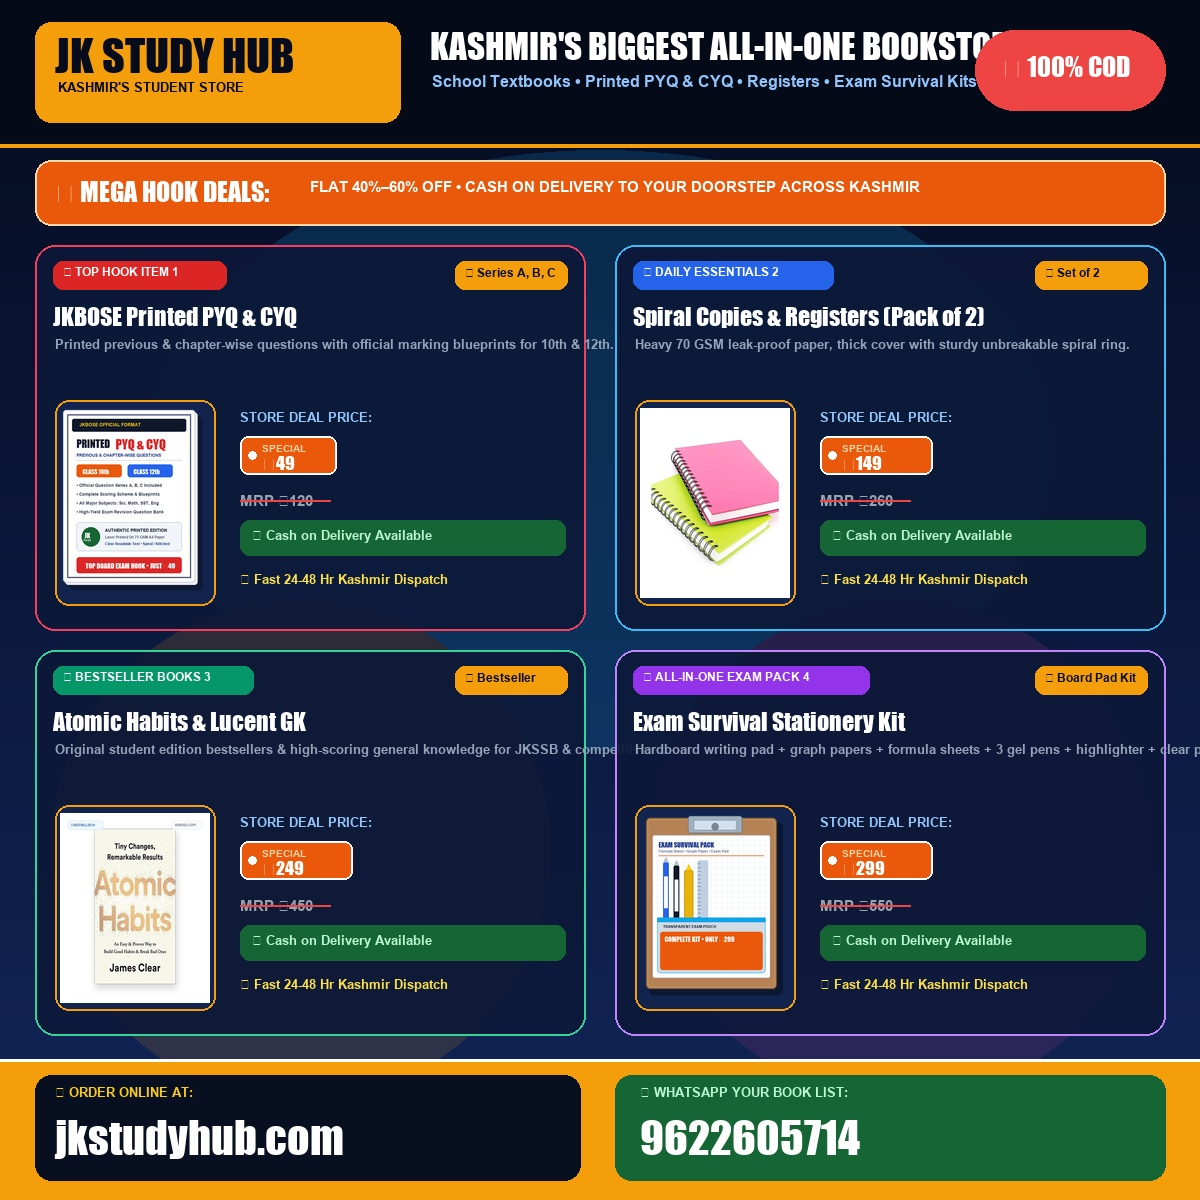
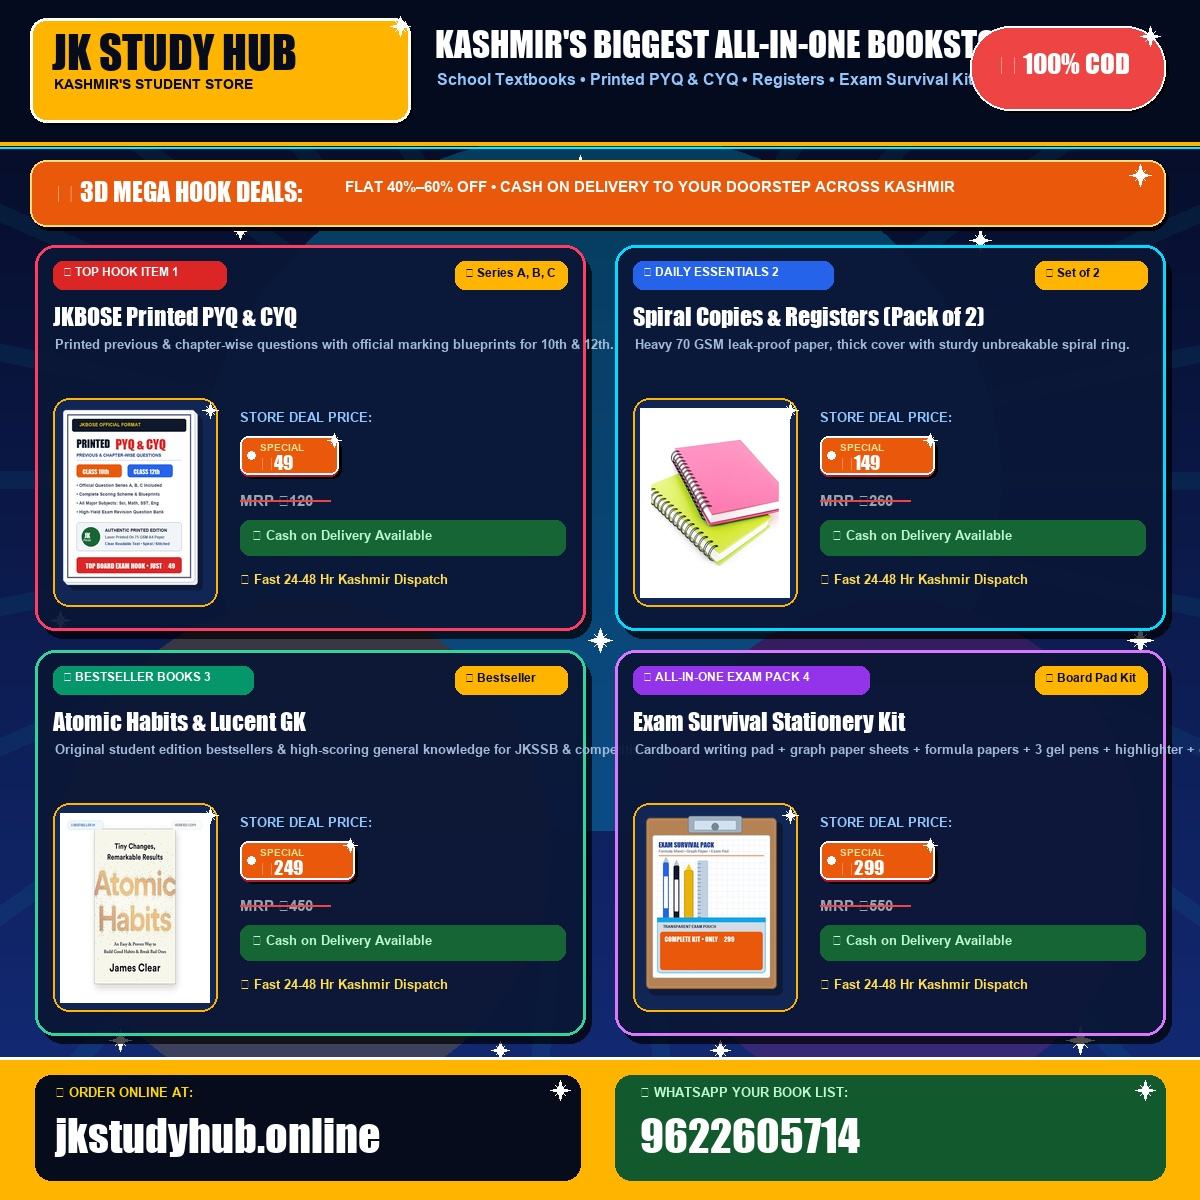
feat(branding): 3D breakout sparkling posters with corrected domain jkstudyhub.online and radiant lighting effects

diff --git a/poster.html b/poster.html
@@ -184,7 +184,7 @@
           <span class="badge-pill">300 DPI Flex Print Ready</span>
         </div>
         <p style="font-size: 13px; color: #94a3b8; margin-top: 4px;">
-          Customized promotional advertising posters with delivery bike, black t-shirt branding, and live store deals.
+          3D Breakout Sparkling Commercial Posters • Official Store Domain: <strong style="color: #f59e0b;">jkstudyhub.online</strong> • Kashmir-Wide Cash on Delivery.
         </p>
       </div>
 
